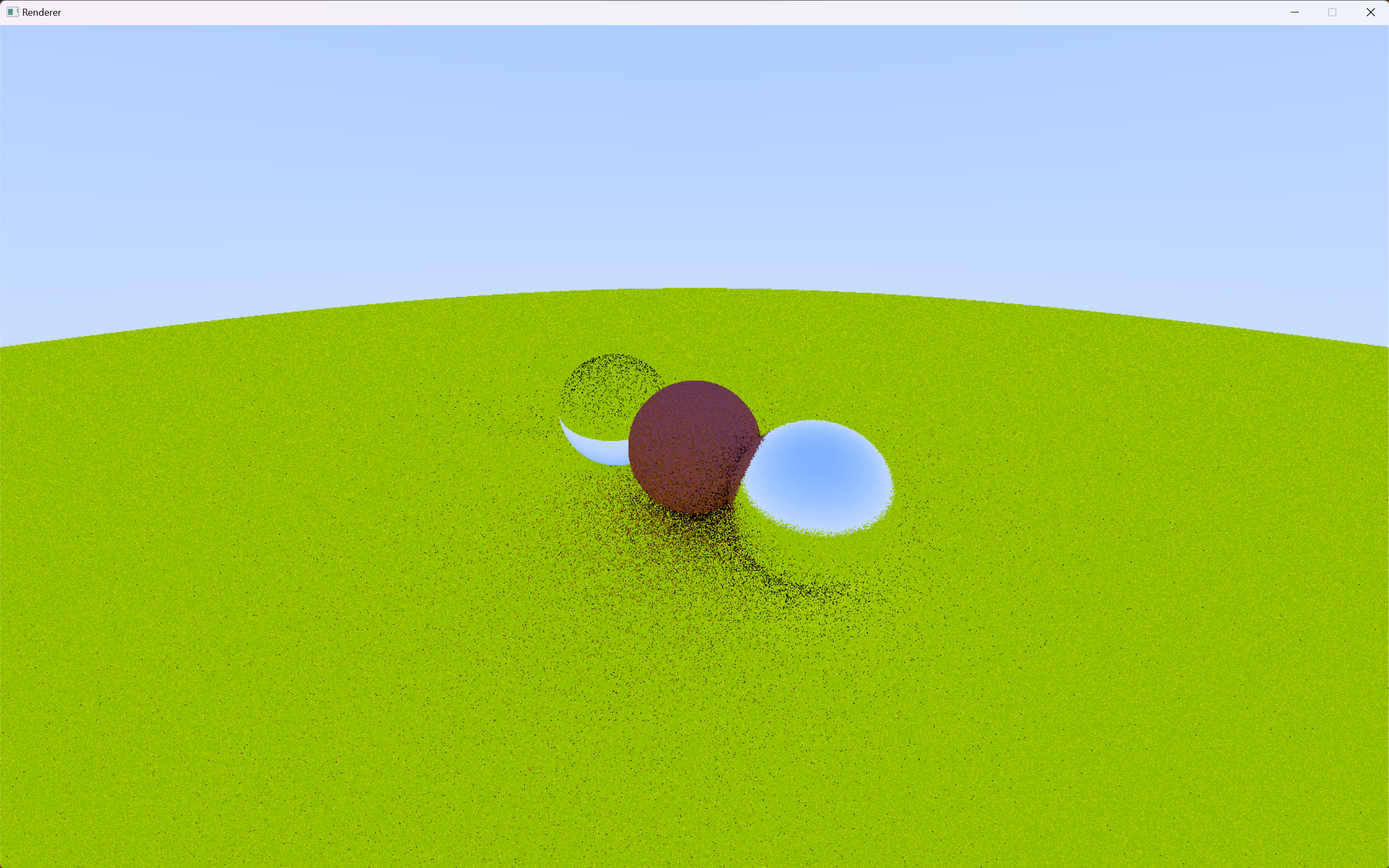
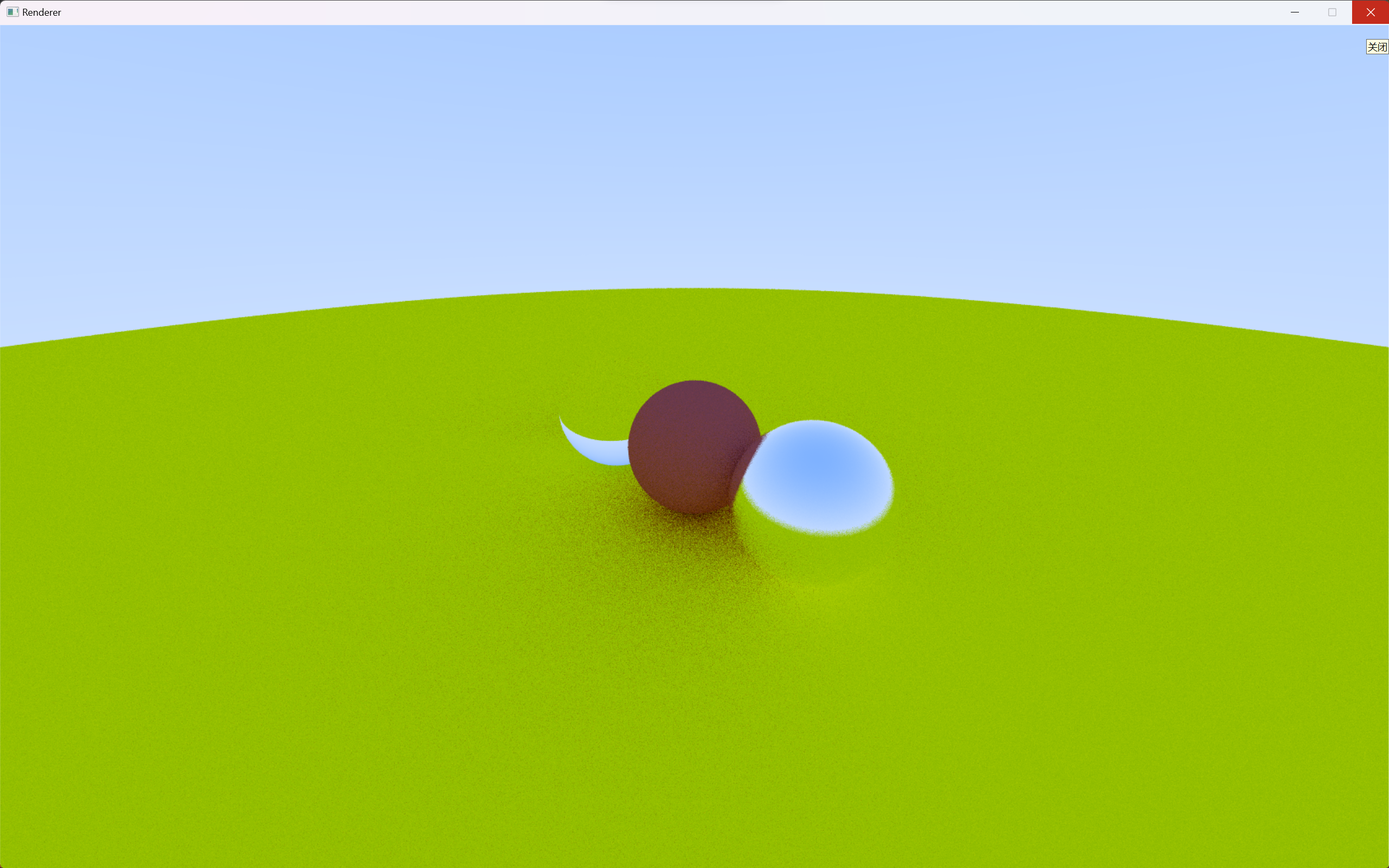
add anti-aliasing

Changed region(s): [[0.3438, 0.4062, 0.6562, 0.8125], [0.9688, 0.0, 1.0, 0.0625]]

diff --git a/raytracing/Camera-RT/src/Renderer.cpp b/raytracing/Camera-RT/src/Renderer.cpp
@@ -6,6 +6,8 @@
 #include <glm/glm.hpp>
 #include <algorithm>
 
+#include "utils.h"
+
 void Renderer::setFramebuffer(uint32_t* pixels,	int width,int height) {
 	m_framebuffer = pixels;
 	m_width = width;
@@ -59,9 +61,14 @@ void Renderer::render(const std::vector<std::shared_ptr<Primitive>>& scene, std:
 	#pragma omp parallel for
 	for (int h = 0; h < m_height; ++h) {
 		for (int w = 0; w < m_width; ++w) {
-			Ray ray = camera->getRay(glm::vec2(w + 0.5f,h + 0.5f),glm::vec2(m_width,m_height));
-			glm::vec3 color = getColor(ray, scene, m_max);
-			setPixel(w,h,glm::vec4(color,1.f));
+			glm::vec3 color(0.f);
+			for (int i = 0; i < m_sampleCount;++i) {
+				float u = w + 0.5f + utils::random(-0.5,0.5);
+				float v = h + 0.5f + utils::random(-0.5,0.5);
+				Ray ray = camera->getRay(glm::vec2(u,v), glm::vec2(m_width, m_height));
+				color += getColor(ray, scene, m_max);
+			}
+			setPixel(w,h,glm::vec4(color/static_cast<float>(m_sampleCount),1.f));
 		}
 	}
 }

diff --git a/raytracing/Camera-RT/src/Renderer.h b/raytracing/Camera-RT/src/Renderer.h
@@ -27,5 +27,6 @@ private:
 	int m_width = 0;
 	int m_height = 0;
 	int m_max = 50;
+	int m_sampleCount = 10;
 };
 
